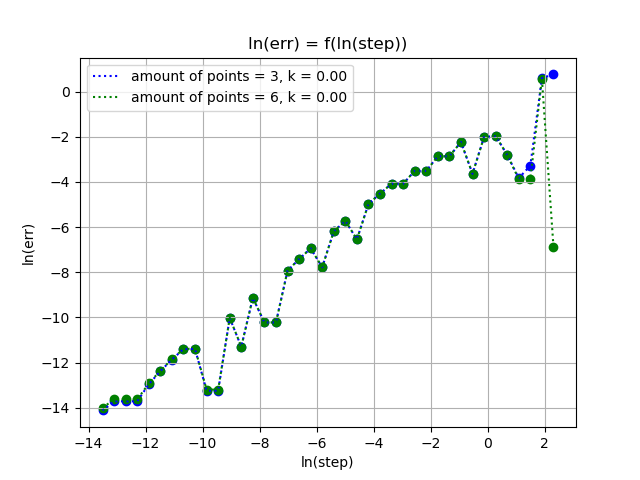
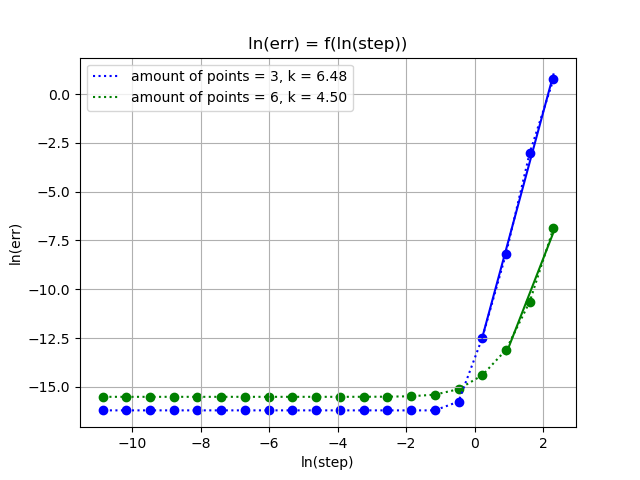
spline in process

diff --git a/source/integration/integration.hpp b/source/integration/integration.hpp
@@ -43,7 +43,7 @@ decltype(auto) integrate(
     switch (N)
     {
         case 3:
-            gauss_nodes = {-0.7745967, 0, 0.7745967};
+            gauss_nodes = {-0.7745967, 0.0, 0.7745967};
             gauss_weights = {0.5555556, 0.8888889, 0.5555556};
 
             break;
@@ -93,11 +93,11 @@ decltype(auto) integrate(
         integral += integrate<Callable, RealType, N>(func, start + dx * i, start + dx * (i + 1));
     }
     
-    // if( end > static_cast<typename ArgumentGetter<Callable>::Argument>(start + dx * n)){
-    //     return integral;
-    // }
+    if( end == static_cast<typename ArgumentGetter<Callable>::Argument>(start + dx * n)){
+        return integral;
+    }
 
-    // integral += integrate<Callable, RealType, N>(func, start + dx * n, end);
+    integral += integrate<Callable, RealType, N>(func, start + dx * n, end);
 
     return integral;
 }

diff --git a/python_graphs_drawer/integration_graphs.py b/python_graphs_drawer/integration_graphs.py
@@ -5,7 +5,7 @@ import numpy as np
 N = [3, 6]
 dir = '/home/kirill/git_repozitories/COMPUT_MATH/graphs/integration/test_integration_N'
 
-#lin_part_ind = [4, 3]
+lin_part_ind = [4, 3]
 colors = ['b', 'g']
 
 for i in range(len(N)):
@@ -23,15 +23,15 @@ for i in range(len(N)):
     X = np.array(X)
     Y = np.array(Y)
 
-    # x = X[0:lin_part_ind[i]]
-    # y = Y[0:lin_part_ind[i]]
+    x = X[0:lin_part_ind[i]]
+    y = Y[0:lin_part_ind[i]]
 
-    # k = np.polyfit(x, y, 1)
-    k = [0, 0]
-    # y = np.polyval(k, x)
+    k = np.polyfit(x, y, 1)
+    # k = [0, 0]
+    y = np.polyval(k, x)
 
     plt.plot(X, Y, ":",  label = "amount of points = {}, k = {:0.2f}".format(N[i], k[0]), color = colors[i])
-    # plt.plot(x, y, color = colors[i])
+    plt.plot(x, y, color = colors[i])
 
     plt.scatter(X, Y, color = colors[i])
 

diff --git a/TESTS/integration_tests.cpp b/TESTS/integration_tests.cpp
@@ -7,8 +7,8 @@
 #include<iomanip>
 #include <cmath>
 
-constexpr double scale = 1.5;
-constexpr std::size_t M = 40;
+constexpr double scale = 2;
+constexpr std::size_t M = 20;
 
 
 TEST(test1, N3){
@@ -28,7 +28,7 @@ TEST(test1, N3){
         //std::cout << integral << std::endl;
 
         points[i] = std::pair<double, double>(std::log(b_i), std::log(std::abs(integral - (std::cos(0) - std::cos(b)))));
-
+    
         b_i /= scale;
         
     }
